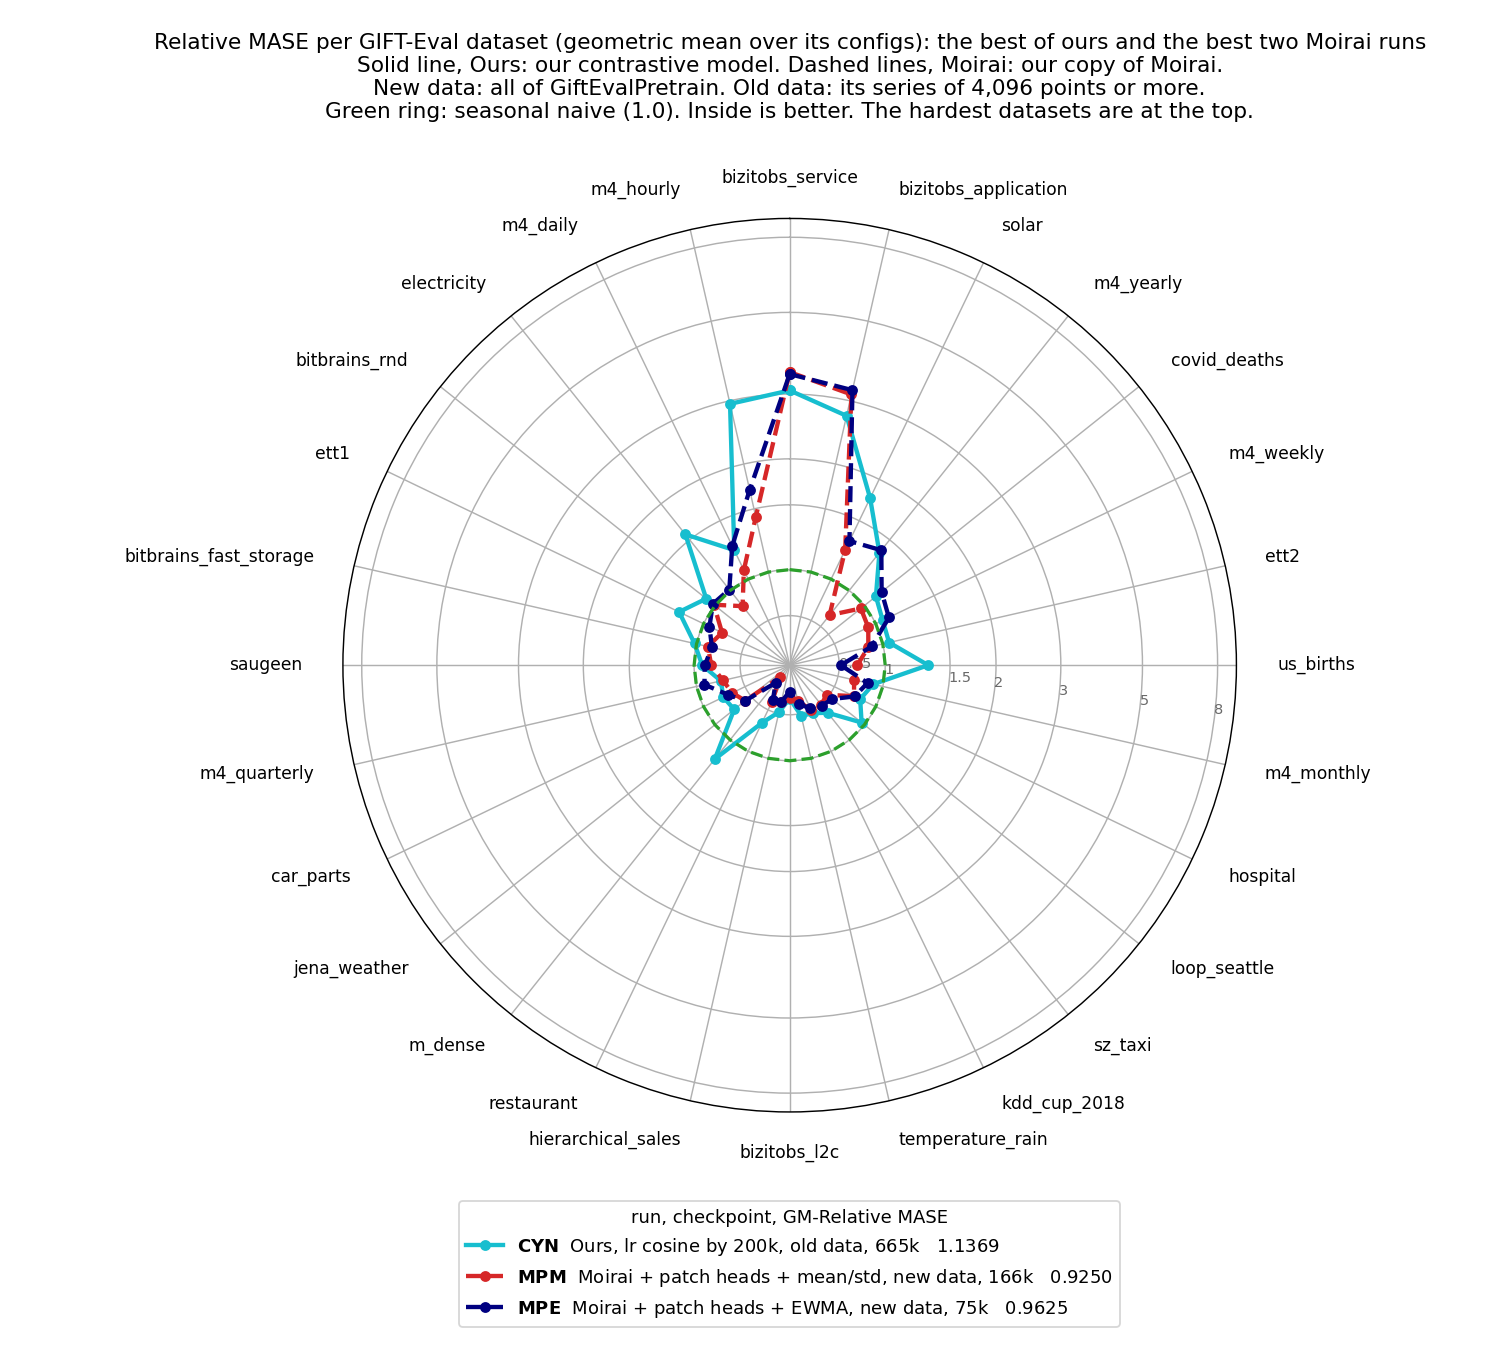
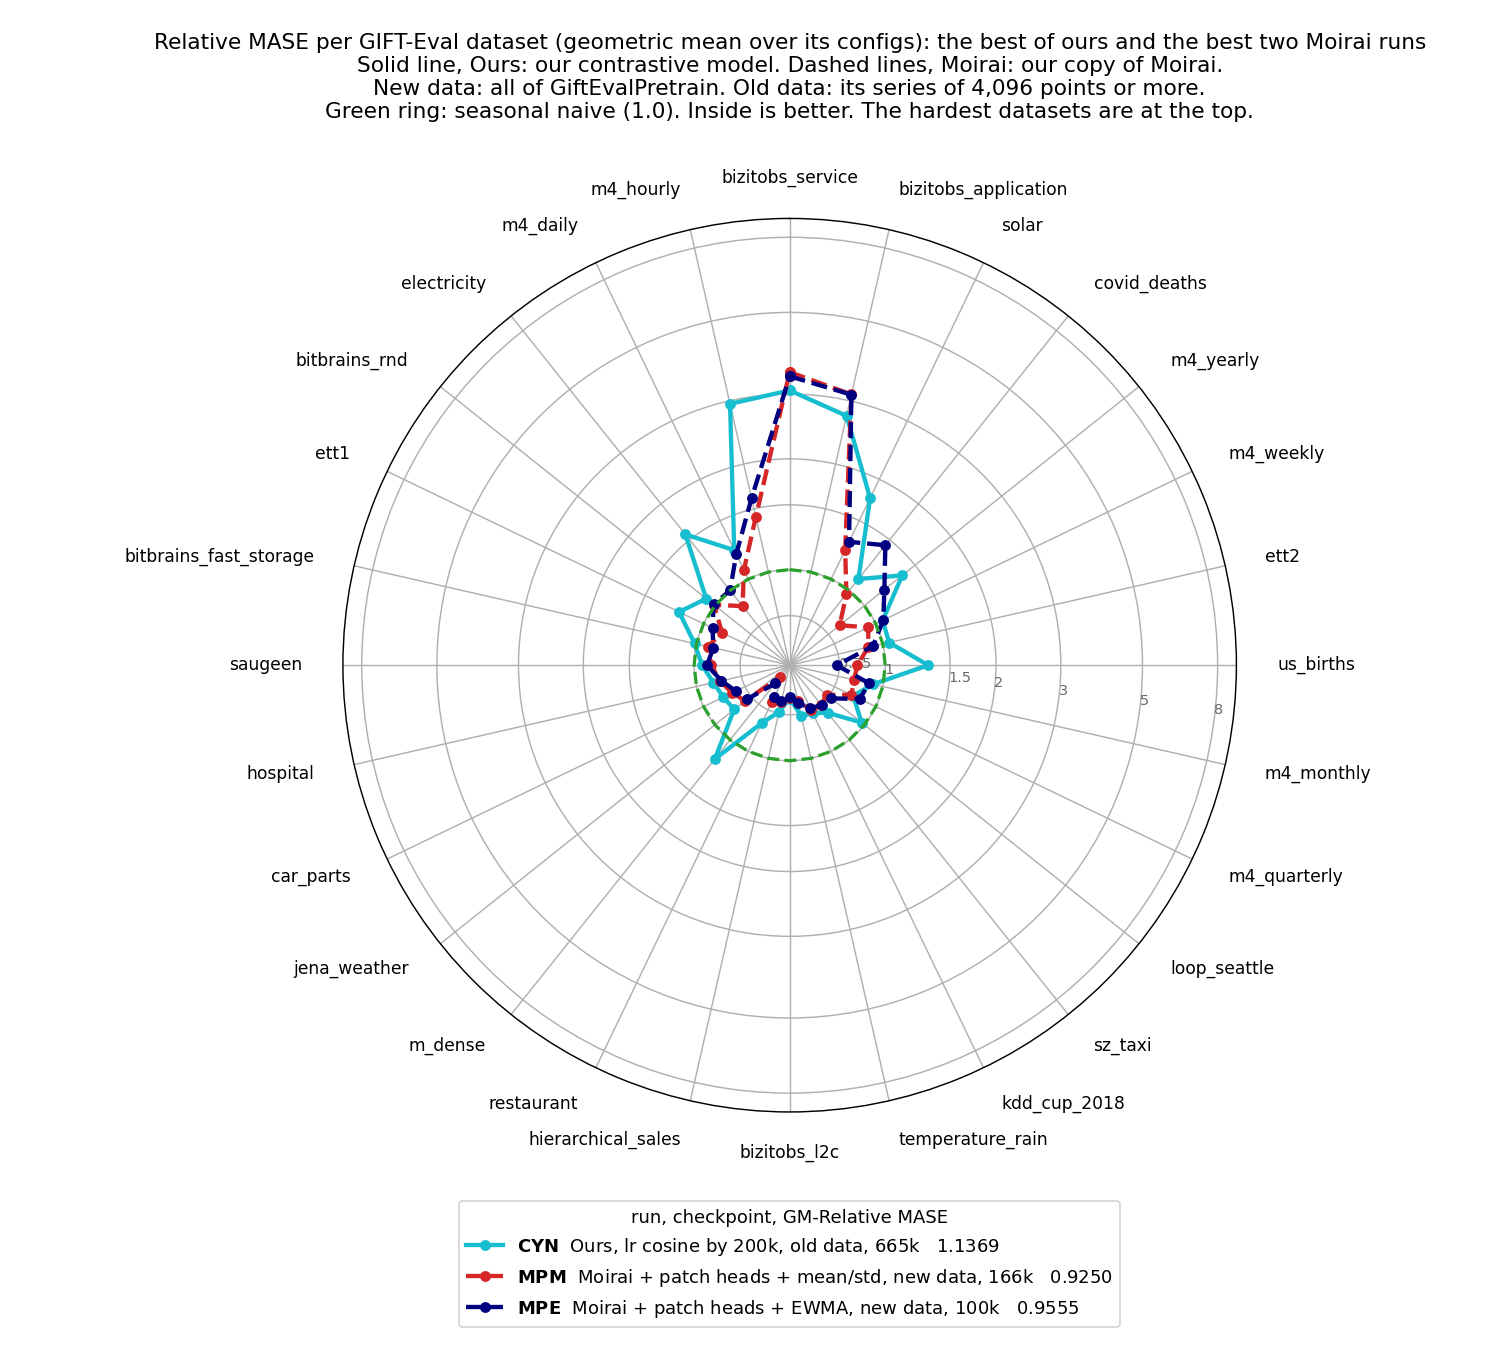
exp(#412): MPE (#421ew) scores 0.9555 at 100k
The radar of the best three runs shows MPE at 100k. The MPE score label
sits below its point, clear of the MPM line.

diff --git a/reports/2026-09-06_moirai_small_size/scripts/plot_radar_best3.py b/reports/2026-09-06_moirai_small_size/scripts/plot_radar_best3.py
@@ -10,8 +10,8 @@ ARMS = [("cyan665", tagged(CYN, "Ours, lr cosine by 200k, old data, 665k   1.136
         ("moirai421f_native166k",
          tagged("cf421f_moirai_native", "Moirai + patch heads + mean/std, new data, 166k   0.9250"),
          colour("cf421f_moirai_native"), MOIRAI),
-        ("moirai421ew_native75k",
-         tagged("cf421ew_moirai_native", "Moirai + patch heads + EWMA, new data, 75k   0.9625"),
+        ("moirai421ew_native100k",
+         tagged("cf421ew_moirai_native", "Moirai + patch heads + EWMA, new data, 100k   0.9555"),
          colour("cf421ew_moirai_native"), MOIRAI)]
 TITLE = ("Relative MASE per GIFT-Eval dataset (geometric mean over its configs): "
          "the best of ours and the best two Moirai runs\n"

diff --git a/reports/2026-09-06_moirai_small_size/scripts/plot_gm_rates.py b/reports/2026-09-06_moirai_small_size/scripts/plot_gm_rates.py
@@ -53,7 +53,8 @@ XSCALE = {"cf415_moirai": 4, "cf415_moirai_native": 4, "cf419_moirai_native": 4,
           "cf412om2": 4}
 # Where the last score of a line prints, so two lines that end together part.
 END_LABEL_OFFSET = {P + "_lr100x": (9, 4), P + "_cos200k": (9, -12), "cf412om": (-62, 6),
-                    "cf412oc2": (-58, -16), "cf412oe2": (9, 5), "cf412om2": (-22, -18)}
+                    "cf412oc2": (-58, -16), "cf412oe2": (9, 5), "cf412om2": (-22, -18),
+                    "cf421ew_moirai_native": (-45, -18)}
 # How far left of its point an off-the-chart label starts, so two such labels part.
 OFF_LABEL_DIV = {"cf412om": 2.4}
 BEST, BAND, PROJECT_BEST = 1.1369, 0.008, 1.0651
